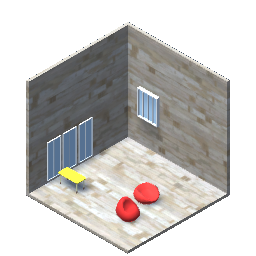
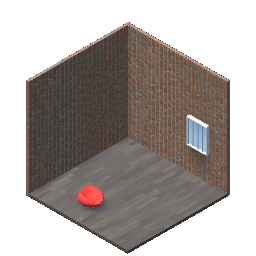
.

diff --git a/Assets/LHY/Scripts/AddManager.cs b/Assets/LHY/Scripts/AddManager.cs
@@ -11,12 +11,14 @@ public class ObjectInfo
     public int folderNumber;
     public int objNumber;
     public int matNumber;
+    public int floorMatNumber;
     public GameObject obj;
     public GameObject room;
     public Vector3 position;
     public Vector3 scale;
     public Vector3 angle;
     public Vector3 boxPosition;
+
 }
 public class ArrayJson<T>
 {
@@ -391,9 +393,18 @@ public class AddManager : MonoBehaviour
             info.room.GetComponent<MeshRenderer>().material = mats[info.matNumber];
             objectInfoList.Add(info);
         }
+        if (info.folderNumber == 16)
+        {
+            info.room = GameObject.Find("Floor.007");
+            info.room.GetComponent<MeshRenderer>().material = floor[info.floorMatNumber];
+            objectInfoList.Add(info);
+        }
+        
     }
     public void CreateMat(ObjectInfo info)
     {
+
+
     }
 
     public void Button0()
@@ -787,6 +798,7 @@ public class AddManager : MonoBehaviour
         AddMaterial = false;
         AddShelf = false;
         AddWallHang = false;
+
         //GameObject wallhang = Instantiate(WallHangItem[currButtonNum]);
         //wallhang.transform.position = SpawnPos.transform.position;
     }
@@ -835,6 +847,7 @@ public class AddManager : MonoBehaviour
         AddMaterial = false;
         AddShelf = false;
         AddWallHang = false;
+
         //GameObject wallhang = Instantiate(WallHangItem[currButtonNum]);
         //wallhang.transform.position = SpawnPos.transform.position;
     }

diff --git a/Assets/SJH/Scripts/MapRight.cs b/Assets/SJH/Scripts/MapRight.cs
@@ -236,7 +236,6 @@ public class MapRight : Map
                 return;
             }
         }
-
         AddManager.instance.objectInfo = new ObjectInfo();
         AddManager.instance.objectInfo.room = objRoom;
         AddManager.instance.objectInfo.folderNumber = num;
